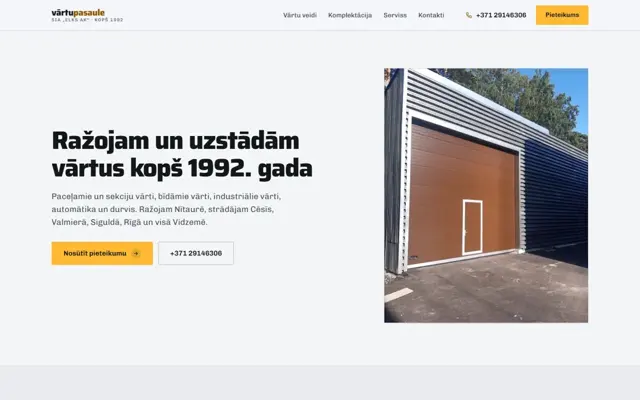
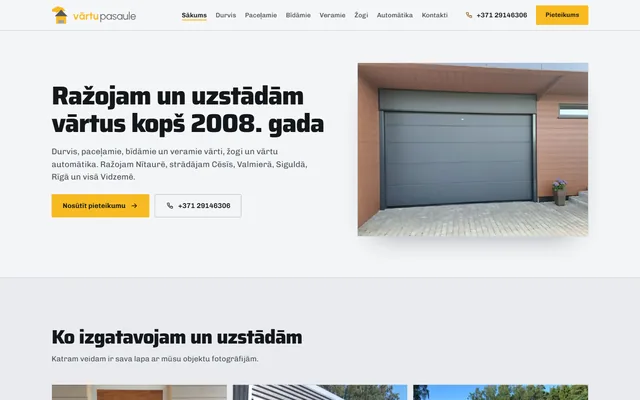
Vārtu pasaule is a live client site now (vartupasaule.lv): second live card, re-shot from the domain, two live sites in the facts

diff --git a/index.html b/index.html
@@ -61,7 +61,7 @@
     </div>
     <ul class="hero__facts" aria-label="Facts">
       <li><b>28</b><span>concepts built</span></li>
-      <li><b>1</b><span>live client site</span></li>
+      <li><b>2</b><span>live client sites</span></li>
       <li><b>7</b><span>countries</span></li>
       <li><b>300&nbsp;€</b><span>once, no monthly fees</span></li>
     </ul>
@@ -102,8 +102,8 @@ if(code!=='en')window.applyPitch(code);})();
   <div class="wrap">
     <div class="sec__head">
       <p class="eyebrow">Work</p>
-      <h2>One client already lives with the new site. Twenty-seven more got a concept they never asked for.</h2>
-      <p class="lead">That is how the free step works. The first card is a live client site. The rest are concepts built from each company’s public materials, not commissioned by them. Tap a card to open the page.</p>
+      <h2>Two clients already live with their new sites. Twenty-six more got a concept they never asked for.</h2>
+      <p class="lead">That is how the free step works. The first two cards are live client sites. The rest are concepts built from each company’s public materials, not commissioned by them. Tap a card to open the page.</p>
     </div>
     <div class="grid" id="grid"></div>
     <p class="more" id="more"></p>
@@ -203,7 +203,7 @@ if(code!=='en')window.applyPitch(code);})();
 <footer class="ftr">
   <div class="wrap ftr__in">
     <span>© 2026 Artur Vasilyan · Kyiv</span>
-    <span>Concept pages are unsolicited redesign proposals built from each business’s public materials and are marked as such; the live client site is marked too.</span>
+    <span>Concept pages are unsolicited redesign proposals built from each business’s public materials and are marked as such; the live client sites are marked too.</span>
   </div>
 </footer>
 

diff --git a/assets/js/data.js b/assets/js/data.js
@@ -1,9 +1,9 @@
 /* Work list. Facts only: each entry is a public page built from the business's own materials.
-   The first entry is the one live client site; everything else is an unsolicited concept. */
+   The first two entries are live client sites; everything else is an unsolicited concept. */
 window.WORK = [
   { id: 'sos', name: 'Autopalīdzība.lv', place: 'Daugavpils, Latvia', craft: 'Towing 24/7', lang: 'Latvian', url: 'https://autopalidziba.lv/', live: true, tag: 'Live client site' },
+  { id: 'vartu', name: 'Vārtu pasaule', place: 'Nītaure, Latvia', craft: 'Gates, doors, fences & automation', lang: 'Latvian', url: 'https://vartupasaule.lv/', live: true, tag: 'Live client site · 8 pages' },
   { id: 'fineremont', name: 'Файний Ремонт', place: 'Kyiv, Ukraine', craft: 'Apartment renovation', lang: 'Ukrainian', url: 'https://vasilyanaptyp-oss.github.io/fineremont-concept/', tag: '3D gallery' },
-  { id: 'vartu', name: 'Vārtu pasaule', place: 'Nītaure, Latvia', craft: 'Gates, doors & automation', lang: 'Latvian', url: 'https://vasilyanaptyp-oss.github.io/vartu-pasaule-concept/', tag: 'Product catalogue' },
   { id: 'ripex', name: 'RIPEX', place: 'Alytus, Lithuania', craft: 'Machinery rental & construction', lang: 'Lithuanian', url: 'https://vasilyanaptyp-oss.github.io/ripex-concept/', tag: 'Rental request form' },
   { id: 'kimela', name: 'Kimela', place: 'Klaipėda, Lithuania', craft: 'Truck & tanker wash', lang: 'Lithuanian', url: 'https://vasilyanaptyp-oss.github.io/kimela-concept/', tag: 'Booking by vehicle type' },
   { id: 'tomi', name: 'Tomi Meble', place: 'Radom, Poland', craft: 'Fitted kitchens', lang: 'Polish', url: 'https://vasilyanaptyp-oss.github.io/tomi-meble-concept/', tag: 'Showroom and branch, six phones' },
